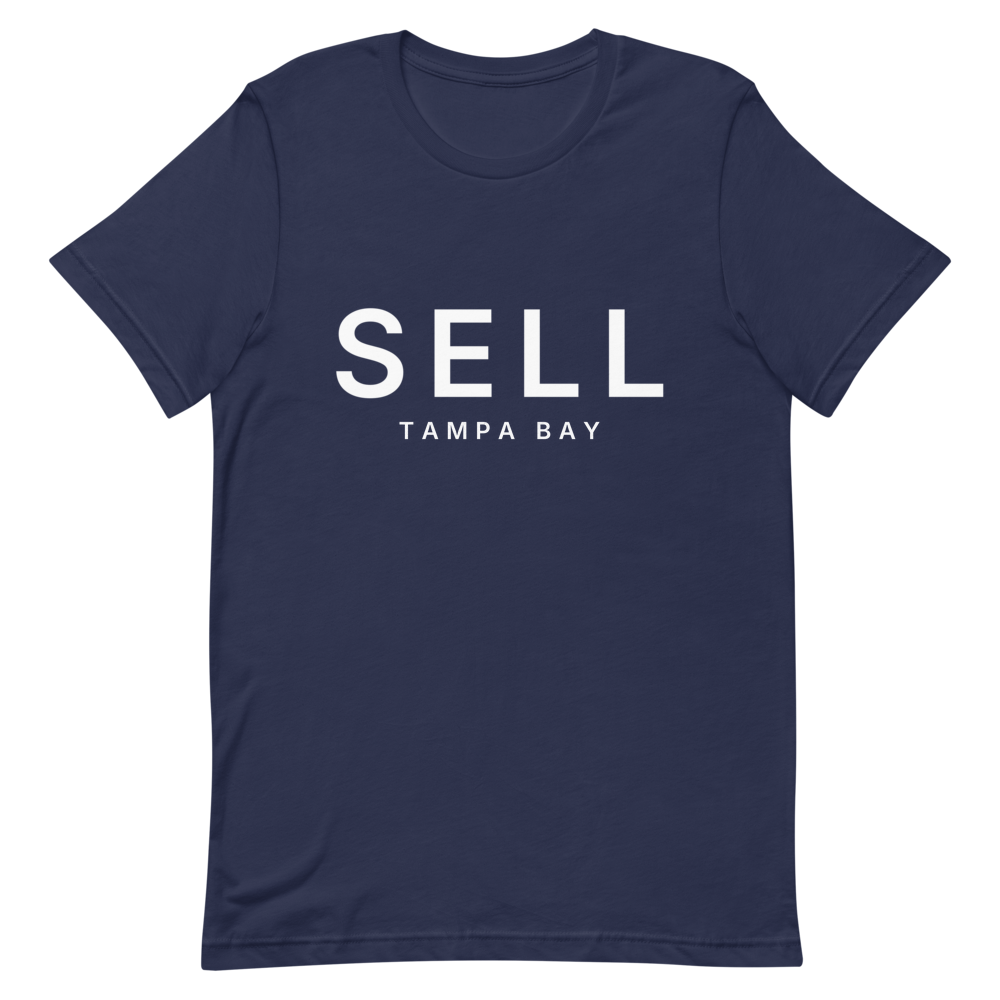
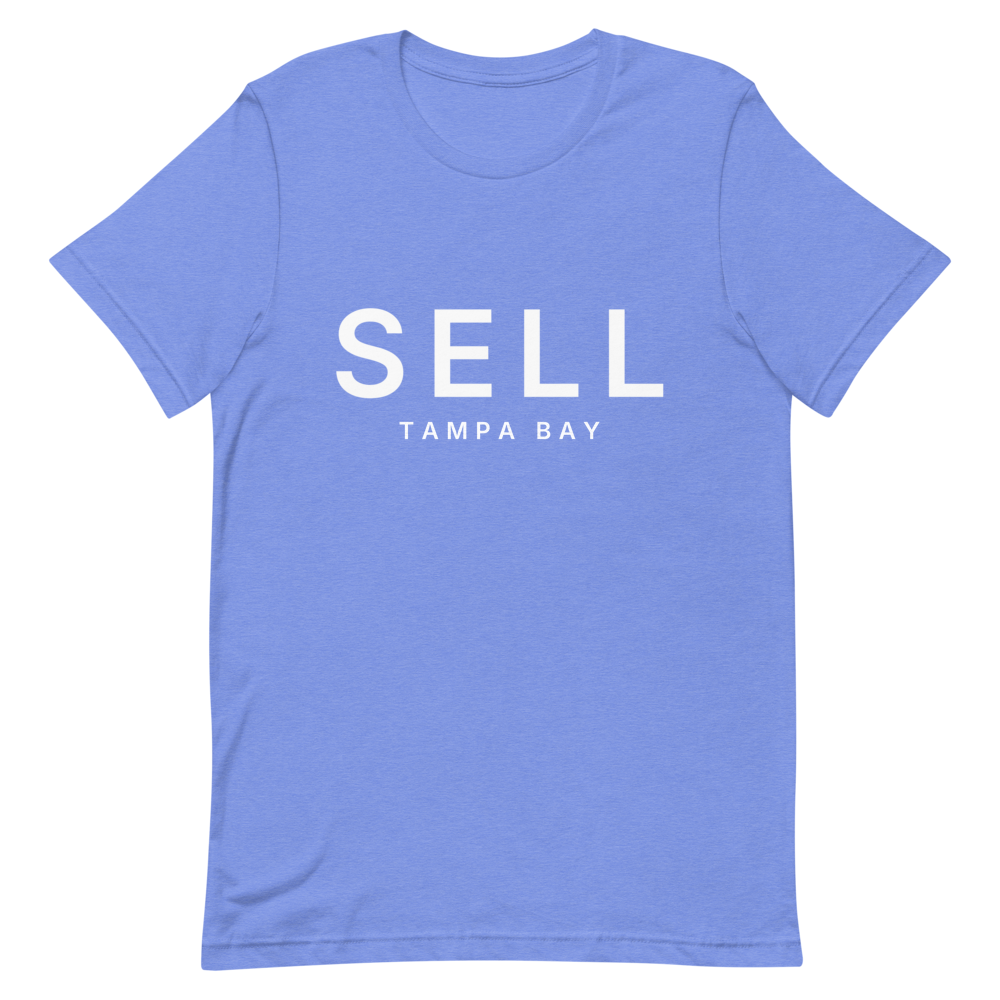
Tampa Bay light blue, Cleveland red, Detroit orange
New York, Tampa Bay, Cleveland and Detroit were all navy. Each now has its
own team color; New York stays navy. New tee, city tee and hoodie photos.

diff --git a/lib/teams.ts b/lib/teams.ts
@@ -66,12 +66,12 @@ const ROWS: Row[] = [
   ["baltimore", "al-east", "Baltimore", "Orioles", "BALTIMORE", "Orange", "Orange"],
   ["boston", "al-east", "Boston", "Red Sox", "BOSTON", "Red", "Red"],
   ["new-york-navy", "al-east", "New York", "Yankees", "NEW YORK", "Navy", "Navy"],
-  ["tampa-bay", "al-east", "Tampa Bay", "Rays", "TAMPA BAY", "Navy", "Navy"],
+  ["tampa-bay", "al-east", "Tampa Bay", "Rays", "TAMPA BAY", "Heather Columbia Blue", "Carolina Blue"],
   ["toronto", "al-east", "Toronto", "Blue Jays", "TORONTO", "True Royal", "Royal"],
   // AL Central
   ["chicago-black", "al-central", "Chicago", "White Sox", "CHICAGO", "Black", "Black"],
-  ["cleveland", "al-central", "Cleveland", "Guardians", "CLEVELAND", "Navy", "Navy"],
-  ["detroit", "al-central", "Detroit", "Tigers", "DETROIT", "Navy", "Navy"],
+  ["cleveland", "al-central", "Cleveland", "Guardians", "CLEVELAND", "Red", "Red"],
+  ["detroit", "al-central", "Detroit", "Tigers", "DETROIT", "Orange", "Orange"],
   ["kansas-city", "al-central", "Kansas City", "Royals", "KANSAS CITY", "True Royal", "Royal"],
   ["minnesota", "al-central", "Minnesota", "Twins", "MINNESOTA", "Navy", "Navy"],
   // AL West

diff --git a/lib/art.ts b/lib/art.ts
@@ -1,4 +1,4 @@
 // Bump when the shirt artwork or photos change: Printful caches print files by
 // URL and next/image caches optimized photos by URL, so a new number makes
 // both fetch fresh copies.
-export const ART_VERSION = 5;
+export const ART_VERSION = 6;
